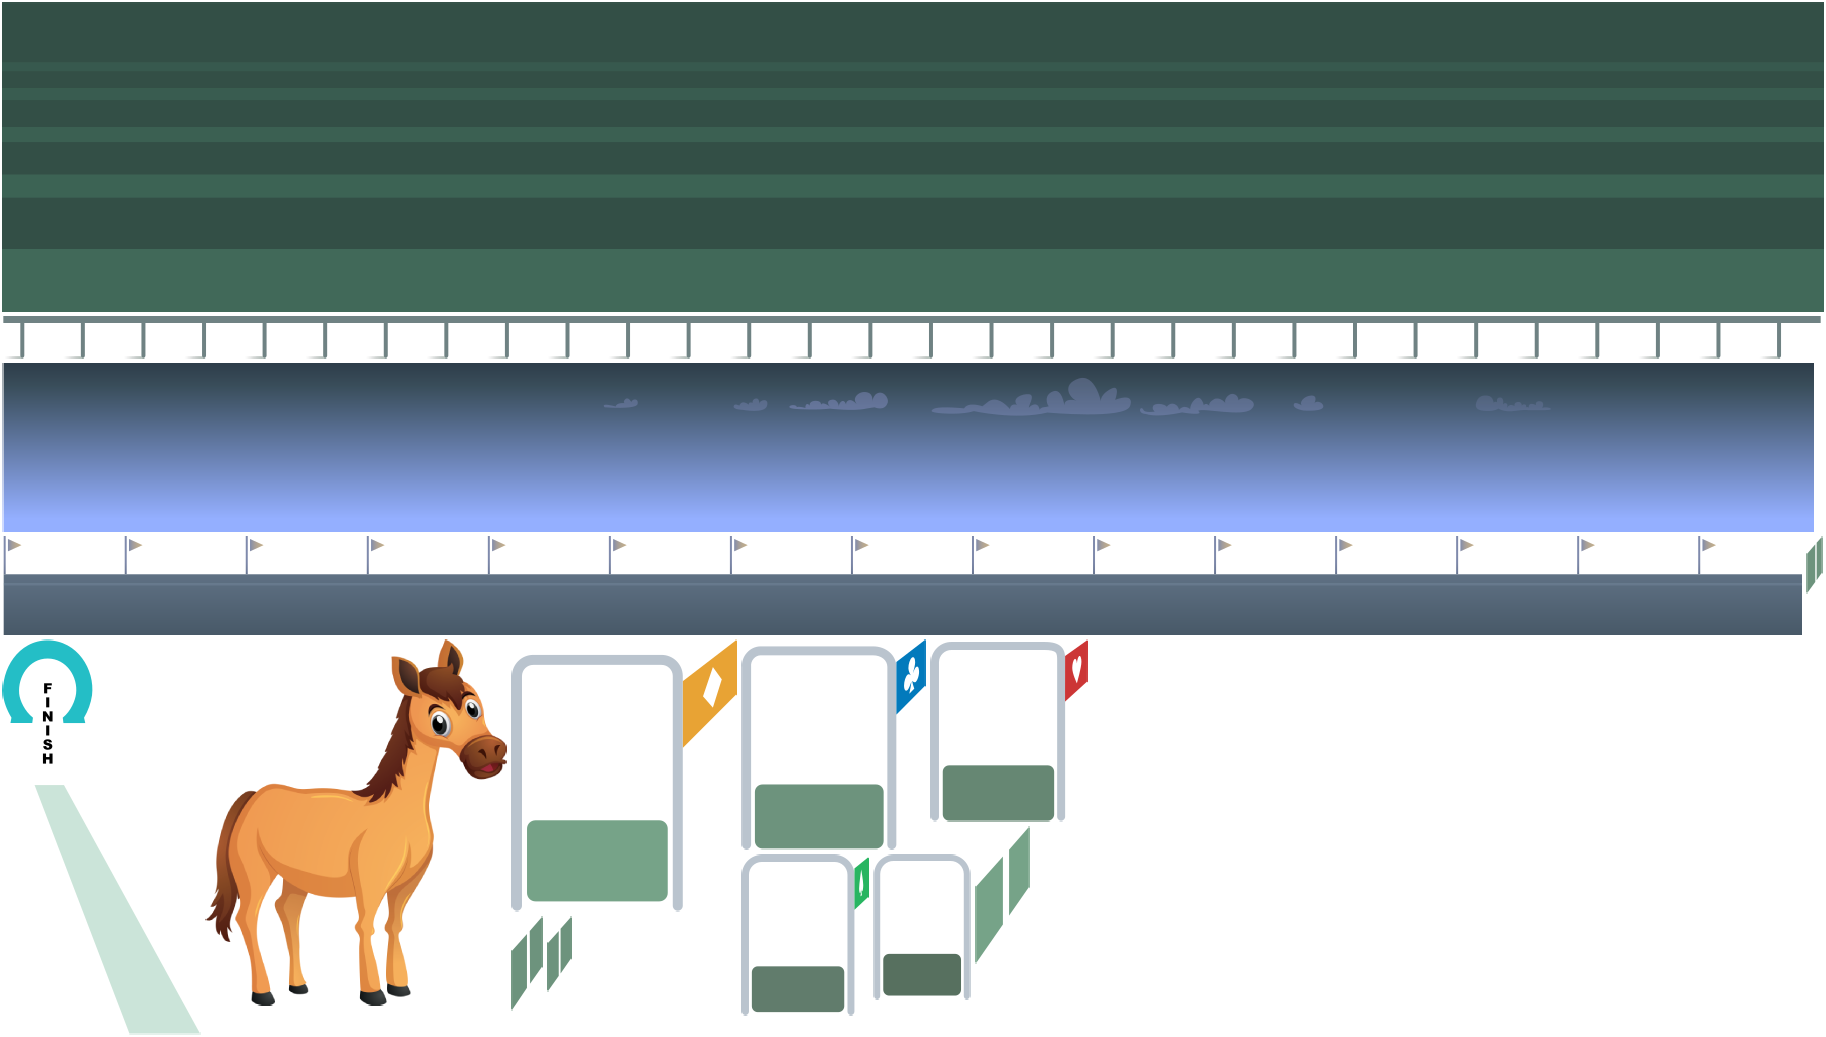
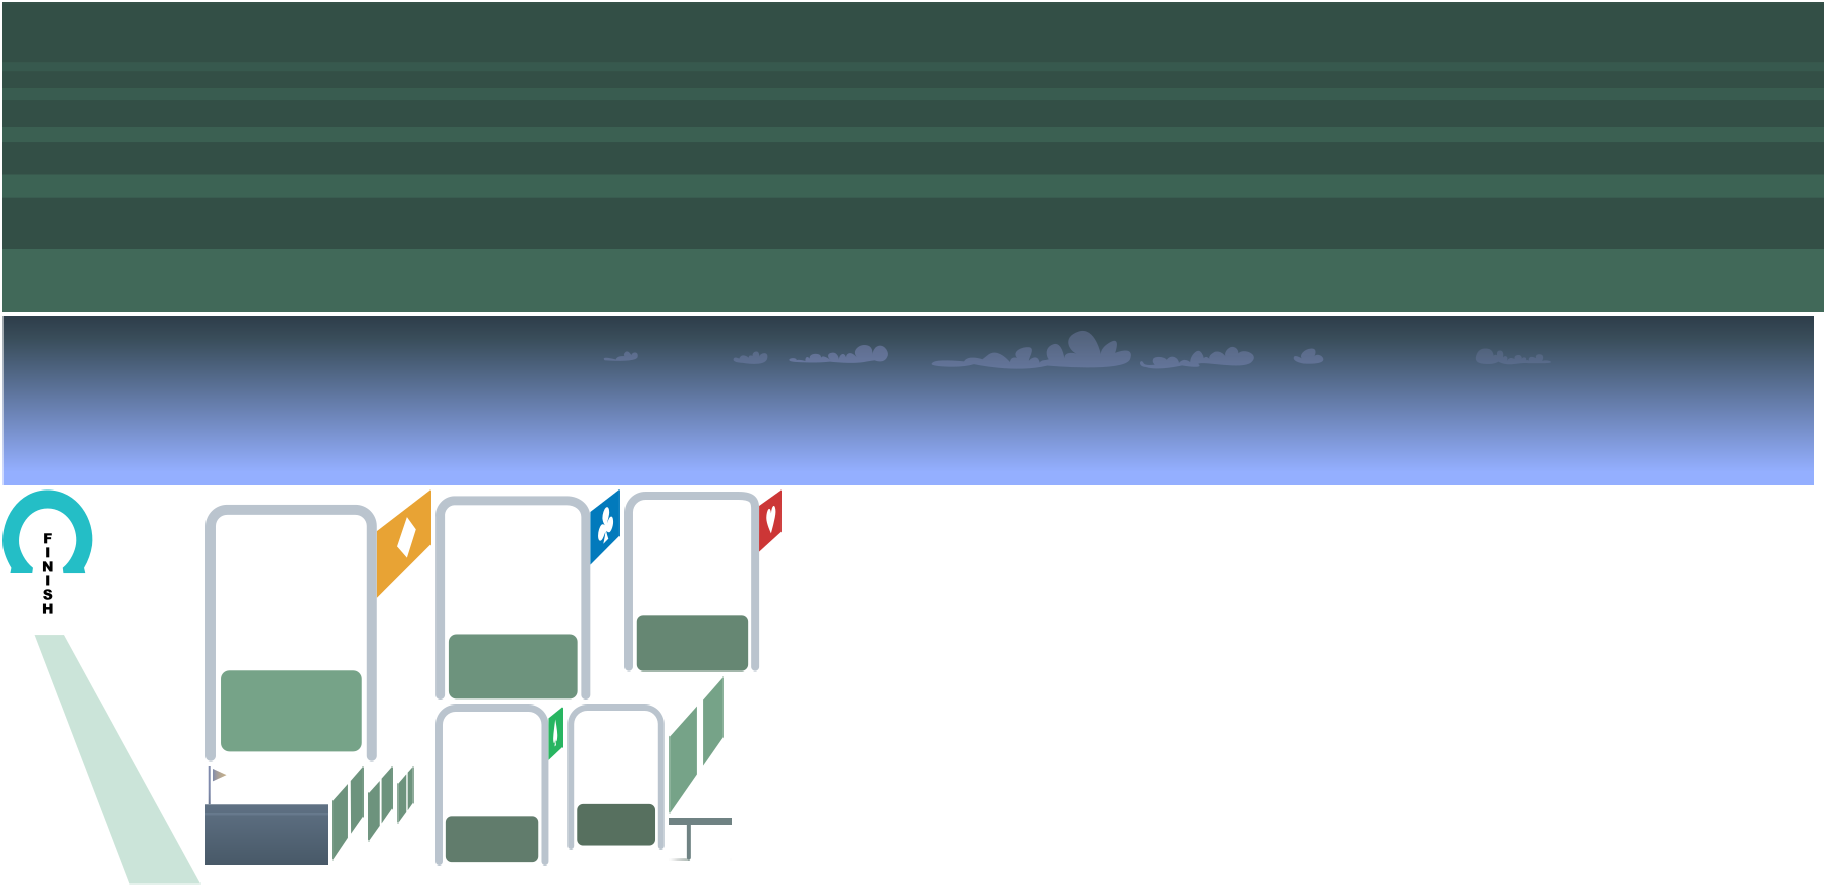
Updated assets, arena and fence are now tileSprite.

diff --git a/src/views/Arena.ts b/src/views/Arena.ts
@@ -1,5 +1,5 @@
 import anime from 'animejs';
-import { AnimatedSprite, Container, Sprite } from 'pixi.js';
+import { Container, Sprite, Texture, TilingSprite } from 'pixi.js';
 import {
     CLUBS,
     ClubsDoorPos,
@@ -19,14 +19,13 @@ import {
     SpadesHorsePos,
     SpadesPos,
     StartingGatePos,
+    WIDTH,
 } from '../configs/Constants';
 import { Horse } from './Horse';
 
 export class Arena extends Container {
-    private arena: Sprite;
-    private arena2: Sprite;
-    private fence: Sprite;
-    private fence2: Sprite;
+    private arena: TilingSprite;
+    private fence: TilingSprite;
     private lane: Sprite;
     private sky: Sprite;
     private finish: Sprite;
@@ -45,8 +44,6 @@ export class Arena extends Container {
     private clubsHorse: Horse;
     private heartsHorse: Horse;
     private spadesHorse: Horse;
-
-    private animatedSprite: AnimatedSprite;
 
     constructor() {
         super();
@@ -111,13 +108,10 @@ export class Arena extends Container {
     }
 
     public move(): void {
-        this.fence.x -= DEFAULT_SPEED;
-        this.fence2.x -= DEFAULT_SPEED;
+        this.fence.tilePosition.x -= DEFAULT_SPEED;
+        this.arena.tilePosition.x -= DEFAULT_SPEED * 0.7;
 
         this.finish.x -= DEFAULT_SPEED;
-
-        this.arena.x -= DEFAULT_SPEED * 0.7;
-        this.arena2.x -= DEFAULT_SPEED * 0.7;
 
         this.sky.x -= DEFAULT_SPEED * 0.3;
 
@@ -141,10 +135,8 @@ export class Arena extends Container {
     }
 
     private buildArena(): void {
-        this.arena = Sprite.from('arena.png');
-        this.arena2 = Sprite.from('arena.png');
-        this.fence = Sprite.from('fence.png');
-        this.fence2 = Sprite.from('fence.png');
+        this.arena = new TilingSprite(Texture.from('arena_tile.png'), WIDTH * 2, 97);
+        this.fence = new TilingSprite(Texture.from('fence_tile.png'), WIDTH * 2, 41);
         this.lane = Sprite.from('lane.png');
         this.sky = Sprite.from('sky.png');
         this.finish = Sprite.from('finish.png');
@@ -153,10 +145,8 @@ export class Arena extends Container {
 
         this.addChild(this.sky);
         this.addChild(this.arena);
-        this.addChild(this.arena2);
         this.addChild(this.lane);
         this.addChild(this.fence);
-        this.addChild(this.fence2);
         this.addChild(this.finish);
     }
 
@@ -221,9 +211,7 @@ export class Arena extends Container {
     private setArenaInitialPositions(): void {
         this.sky.position.set(0, 0);
         this.arena.position.set(-2, 128);
-        this.arena2.position.set(this.arena.x + this.arena.width - 4, this.arena.y);
         this.fence.position.set(0, this.arena.y + this.arena.height / 2 + this.fence.height + 2);
-        this.fence2.position.set(this.fence.x + this.fence.width - 4, this.fence.y);
         this.lane.position.set(1, this.fence.y);
         this.finish.position.set(1820, this.lane.y - this.finish.height / 4 + 15);
     }

diff --git a/src/views/BoardView.ts b/src/views/BoardView.ts
@@ -1,6 +1,6 @@
 import { lego } from '@armathai/lego';
 import { Container, Rectangle } from 'pixi.js';
-import { BoardEvents } from '../events/MainEvents';
+import { HEIGHT, WIDTH } from '../configs/Constants';
 import { GameModelEvents } from '../events/ModelEvents';
 import { GameStatus } from '../gameLogic';
 import { Arena } from './Arena';
@@ -28,7 +28,7 @@ export class BoardView extends Container {
     }
 
     public getBounds(skipUpdate?: boolean | undefined, rect?: PIXI.Rectangle | undefined): PIXI.Rectangle {
-        return new Rectangle(0, 0, 800, 600);
+        return new Rectangle(0, 0, WIDTH, HEIGHT);
     }
 
     public update(): void {

diff --git a/src/configs/Constants.ts b/src/configs/Constants.ts
@@ -26,3 +26,6 @@ export const SpadesHorsePos = { x: 0 + 230, y: 85 + 160 };
 export const HeartsHorsePos = { x: -30 + 230, y: 110 + 160 };
 export const ClubsHorsePos = { x: -80 + 230, y: 150 + 160 };
 export const DiamondsHorsePos = { x: -140 + 230, y: 215 + 160 };
+
+export const WIDTH = 800;
+export const HEIGHT = 600;
